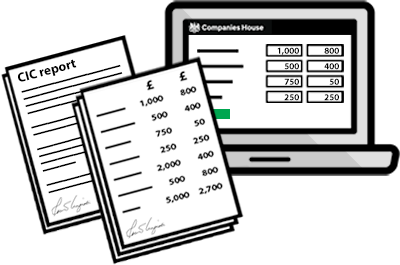
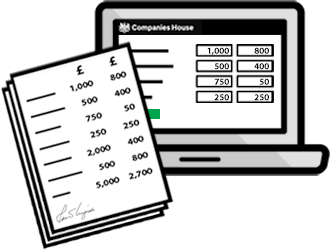
Updated interruption card styles

diff --git a/app/assets/sass/_ch-accounts.scss b/app/assets/sass/_ch-accounts.scss
@@ -850,7 +850,7 @@ img.card-image {
     float: right;
   }
 }
-/// Flash card ///
+/// interruption card ///
 
 .circle-step-white {
   height: 1.4em;
@@ -878,12 +878,26 @@ img.card-image {
   margin: -0.4em 0.5em 1em 0;
 }
 
-.flash-card {
+.interruption-card {
   padding: 2em 3em;
-  background: $govuk-link-colour url("/public/images/file-accounts-transparent.png") no-repeat 95% 60%;
+  background: $govuk-link-colour url("/public/images/file-accounts-and-cic-report-transparent.png") no-repeat 95% 60%;
 
-  &.flash-card-paper {
+  &.interruption-card-paper {
     background: $govuk-link-colour url("/public/images/file-paper.png") no-repeat 90% 100%;
+  }
+  @include govuk-media-query($until: tablet) {
+    background-image: none !important;
+  }
+
+  &.interruption-card-cic-only {
+    background: $govuk-link-colour url("/public/images/file-cic-report-transparent.png") no-repeat 90% 30%;
+  }
+  @include govuk-media-query($until: tablet) {
+    background-image: none !important;
+  }
+
+  &.interruption-card-accounts-only {
+    background: $govuk-link-colour url("/public/images/file-accounts-transparent.png") no-repeat 90% 30%;
   }
   @include govuk-media-query($until: tablet) {
     background-image: none !important;

diff --git a/app/views/accounts/accounts-start-info.html b/app/views/accounts/accounts-start-info.html
@@ -24,21 +24,20 @@
 
           <p>You’ll need to refer to your prepared accounts.</p>
           <p>You won’t need to fill in every section – only fill in what’s in your prepared accounts.</p>
+
           {{ govukInsetText({
-              text: "Your answers will be saved as you go on. You can leave at any time and resume filing later."
-            }) }}
+            text: "Your answers will be saved as you go on. You can leave at any time and resume filing later."
+          }) }}
 
           <form action="/small-full/small-full-accounts-dates" method="GET">
             {{ govukButton({
-          text: "Continue to accounts"
-        }) }}
+                  text: "Continue to accounts"
+                }) }}
           </form>
-
         </div>
         <!--govuk-grid-row-->
       </div>
       <!--govuk-grid-column-two-thirds-->
-
     </main>
   </div>
   <!---govuk-width-container-->

diff --git a/app/views/cics/cics-start-info.html b/app/views/cics/cics-start-info.html
@@ -24,9 +24,7 @@
 
           <p>If you’ve prepared your CIC information, you’ll need to refer to it now.</p>
           <p>After completing your CIC report, you’ll file your accounts.</p>
-          {{ govukInsetText({
-              text: "Your answers will be saved as you go on. You can leave at any time and resume filing later."
-            }) }}
+          <div class="govuk-inset-text">Your answers will be saved as you go on. You can leave at any time and resume filing later.</div>
 
           <form action="/cics/general-description" method="GET">
             {{ govukButton({

diff --git a/app/views/cics/cics-about-service.html b/app/views/cics/cics-about-service.html
@@ -13,7 +13,7 @@
 
     <main class="govuk-main-wrapper">
 
-      <div class="flash-card">
+      <div class="interruption-card">
         <header>
           <h1 class="govuk-heading-l">How to file your CIC report and accounts</h1>
         </header>
@@ -52,7 +52,7 @@
           <a href="https://www.gov.uk/annual-accounts">I need help preparing my accounts</a>
         </p>
       </div>
-      <!--flash card-->
+      <!--interruption card-->
 
     </main>
   </div>

diff --git a/app/views/cics/cics-file-paper.html b/app/views/cics/cics-file-paper.html
@@ -13,7 +13,7 @@
 
     <main class="govuk-main-wrapper">
 
-      <div class="flash-card flash-card-paper">
+      <div class="interruption-card interruption-card-paper">
         <header>
           <h1 class="govuk-heading-l">How to file your CIC report and
             {{ data['chooseAccountsRadioGovCics'] }}
